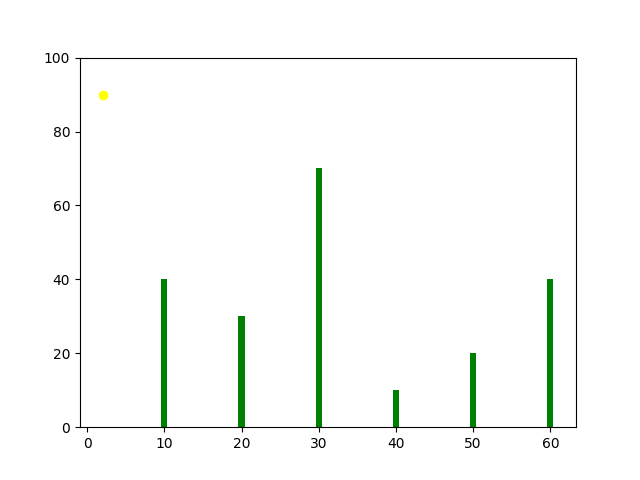
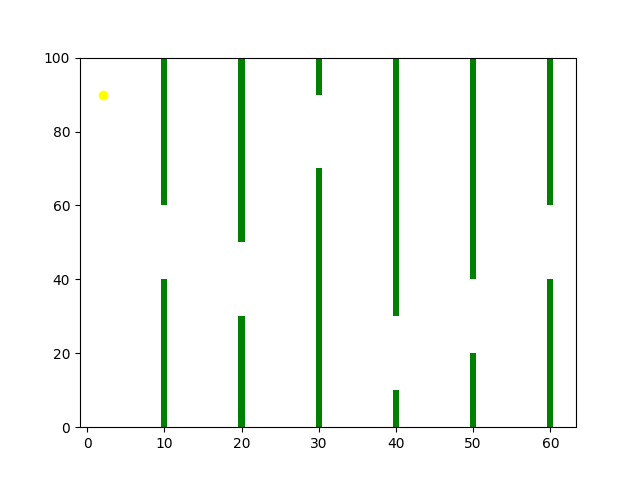
Added horizontal bar movement

diff --git a/main.py b/main.py
@@ -1,18 +1,87 @@
 import matplotlib.pyplot as plt
+import numpy as np
+import random
+
+bird_height = 90
+Key_pressed = False
+
+
+def on_key(event):
+    global Key_pressed
+    if event.key == "x":
+        Key_pressed = True
 
 
 def main():
-    # bars/obstacles of our game
-    bars = [10, 20, 30, 40, 50, 60]
-    bar_height = [40, 30, 70, 10, 20, 40]
+    global bird_height, Key_pressed
 
-    # birb - only change in y axis no change in x axis
-    bird_height = 90
-    plt.scatter(2, bird_height, color="yellow")
+    # X positions
+    bars = np.array([10, 20, 30, 40, 50, 60], dtype=float)
 
-    plt.ylim(0, 100)
-    plt.bar(bars, bar_height, color="green")
-    plt.savefig("test")
+    width = 3
+    speed = 0.3
+
+    # Heights
+    bar_height = np.array([40, 30, 70, 10, 20, 40], dtype=float)
+    gap = 20  # constant gap
+
+    fig, ax = plt.subplots(figsize=(8, 6))
+    point = ax.scatter(2, bird_height, color="yellow")
+
+    ax.set_xlim(0, 70)
+    ax.set_ylim(0, 100)
+
+    # Initial bars
+    bottom_rects = ax.bar(bars, bar_height, width=width, color="green")
+    gap_rects = ax.bar(bars, [gap]*len(bars), bottom=bar_height, width=width, color="white")
+    top_rects = ax.bar(
+        bars,
+        100 - (bar_height + gap),
+        bottom=bar_height + gap,
+        width=width,
+        color="green",
+    )
+
+    fig.canvas.mpl_connect("key_press_event", on_key)
+
+    try:
+        while True:
+            # ---------------- Bird physics ----------------
+            bird_height -= 0.4
+            bird_height = max(0, bird_height)
+
+            if Key_pressed:
+                bird_height += 10
+                Key_pressed = False
+
+            point.set_offsets([[2, bird_height]])
+
+            # ---------------- Bar movement ----------------
+            bars -= speed
+
+            for i in range(len(bars)):
+                if bars[i] < 0:
+                    bars[i] = 70  # reset to right
+                    bar_height[i] = random.randint(10, 70)
+
+            # ---------------- Update bars ----------------
+            for i, rect in enumerate(bottom_rects):
+                rect.set_x(bars[i])
+                rect.set_height(bar_height[i])
+
+            for i, rect in enumerate(gap_rects):
+                rect.set_x(bars[i])
+                rect.set_y(bar_height[i])
+
+            for i, rect in enumerate(top_rects):
+                rect.set_x(bars[i])
+                rect.set_y(bar_height[i] + gap)
+                rect.set_height(100 - (bar_height[i] + gap))
+
+            plt.pause(0.01)
+
+    except KeyboardInterrupt:
+        print("Game stopped")
 
 
 if __name__ == "__main__":
